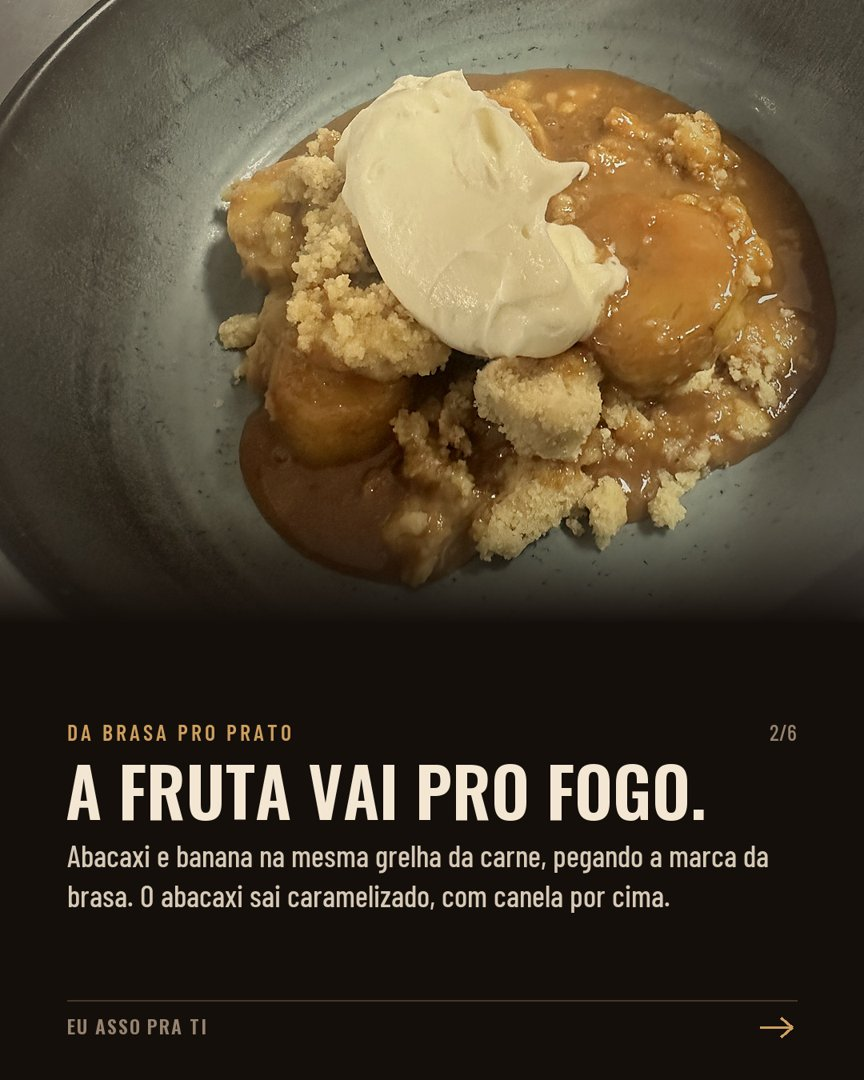
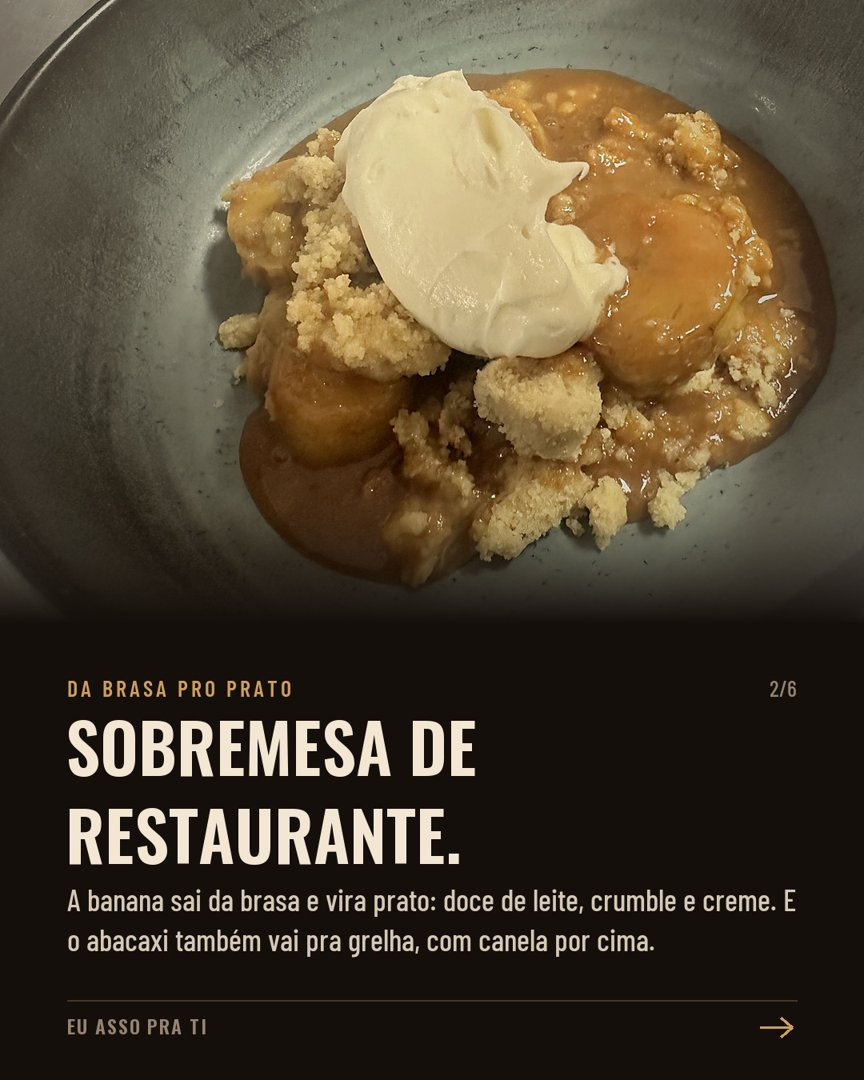
Post 08: slide 2 sobremesa de restaurante

Changed region(s): [[0.0625, 0.6111, 0.9375, 0.8861], [0.875, 0.6722, 0.9375, 0.7028], [0.9062, 0.6111, 0.9375, 0.6417]]

diff --git a/calendario/index.html b/calendario/index.html
@@ -11,7 +11,7 @@
 --display:"Oswald","Arial Narrow",sans-serif;--label:"Barlow Condensed","Arial Narrow",sans-serif;--text:"Barlow",system-ui,sans-serif;color-scheme:dark}
 *{box-sizing:border-box}
 body{margin:0;background:var(--bg);color:var(--body);font:400 1.0625rem/1.6 var(--text)}
-.hero{position:relative;min-height:min(78vh,620px);display:grid;align-items:end;background:#000 url(img/p7-01.jpg?v=1792529153) center 45%/cover}
+.hero{position:relative;min-height:min(78vh,620px);display:grid;align-items:end;background:#000 url(img/p7-01.jpg?v=1792529203) center 45%/cover}
 .hero::after{content:"";position:absolute;inset:0;background:linear-gradient(180deg,rgba(21,15,11,.2) 0%,rgba(21,15,11,.55) 45%,var(--bg) 100%)}
 .hero .in{position:relative;z-index:1;max-width:760px;margin:0 auto;width:100%;padding:0 20px 36px}
 h1,h2{font-family:var(--display);font-weight:600;text-transform:uppercase;color:var(--fg);line-height:1.05;margin:0;text-wrap:balance}
@@ -88,13 +88,13 @@ footer{font:500 .9rem var(--label);color:var(--muted);letter-spacing:.06em;borde
   <h2>Post 7: sal antes ou sal depois?</h2>
   <p>Refeito com a tua explicação. Capa com o costelão assado, o fogo da tua churrasqueira, o teu vídeo salgando com sal grosso no time sal antes, e todos os cards na mesma cor quente e premium. Depois: a reação de Maillard, quando salgar antes, quando salgar depois, como tu faz e por que não salgar o corte nobre antes. Fecha com o teu time: depende do corte.</p>
   <div class="car" aria-label="Imagens do post 7">
-    <img src="img/p7-01.jpg?v=1792529153" alt="Capa: Sal antes ou sal depois?" loading="lazy">
-    <img src="img/p7-02.jpg?v=1792529153" alt="A crostinha faz a diferença" loading="lazy">
-    <video src="video/p7-sal.mp4?v=1792529153" autoplay muted loop playsinline style="width:min(78%,330px);flex:none;scroll-snap-align:start;border-radius:8px;aspect-ratio:4/5;object-fit:cover;box-shadow:0 10px 30px rgba(0,0,0,.4)"></video>
-    <img src="img/p7-04.jpg?v=1792529153" alt="Time sal depois" loading="lazy">
-    <img src="img/p7-05.jpg?v=1792529153" alt="Descansa, fatia, salga" loading="lazy">
-    <img src="img/p7-06.jpg?v=1792529153" alt="Sal cedo tira o sabor" loading="lazy">
-    <img src="img/p7-07.jpg?v=1792529153" alt="E eu? Depende do corte" loading="lazy">
+    <img src="img/p7-01.jpg?v=1792529203" alt="Capa: Sal antes ou sal depois?" loading="lazy">
+    <img src="img/p7-02.jpg?v=1792529203" alt="A crostinha faz a diferença" loading="lazy">
+    <video src="video/p7-sal.mp4?v=1792529203" autoplay muted loop playsinline style="width:min(78%,330px);flex:none;scroll-snap-align:start;border-radius:8px;aspect-ratio:4/5;object-fit:cover;box-shadow:0 10px 30px rgba(0,0,0,.4)"></video>
+    <img src="img/p7-04.jpg?v=1792529203" alt="Time sal depois" loading="lazy">
+    <img src="img/p7-05.jpg?v=1792529203" alt="Descansa, fatia, salga" loading="lazy">
+    <img src="img/p7-06.jpg?v=1792529203" alt="Sal cedo tira o sabor" loading="lazy">
+    <img src="img/p7-07.jpg?v=1792529203" alt="E eu? Depende do corte" loading="lazy">
   </div>
   <p class="hint">Arrasta para o lado: 6 imagens e o vídeo do sal grosso.</p>
   <details><summary>Ver a legenda</summary><div class="cap">Sal antes ou sal depois? 🧂🔥
@@ -126,12 +126,12 @@ Agora me conta aqui nos comentários: tu é de qual time? 👇
   <h2>Post 8: sobremesas no fogo</h2>
   <p>Montado com as tuas fotos, na pegada de restaurante: abacaxi e banana caramelizando na grelha na capa, a banana com doce de leite, crumble e creme, o teu vídeo ralando limão na banana empratada, a banana assada com doce de leite e crocante, o Martín Fierro e o fecho com o fogo da churrasqueira.</p>
   <div class="car" aria-label="Imagens do post 8">
-    <img src="img/p8-01.jpg?v=1792529153" alt="Capa: E a sobremesa? No fogo, é claro." loading="lazy">
-    <img src="img/p8-02.jpg?v=1792529153" alt="A fruta vai pro fogo" loading="lazy">
-    <video src="video/p8-sobremesa.mp4?v=1792529153" autoplay muted loop playsinline style="width:min(78%,330px);flex:none;scroll-snap-align:start;border-radius:8px;aspect-ratio:4/5;object-fit:cover;box-shadow:0 10px 30px rgba(0,0,0,.4)"></video>
-    <img src="img/p8-04.jpg?v=1792529153" alt="Doce de leite e crocante" loading="lazy">
-    <img src="img/p8-05.jpg?v=1792529153" alt="Martín Fierro" loading="lazy">
-    <img src="img/p8-06.jpg?v=1792529153" alt="Gostinho de quero mais" loading="lazy">
+    <img src="img/p8-01.jpg?v=1792529203" alt="Capa: E a sobremesa? No fogo, é claro." loading="lazy">
+    <img src="img/p8-02.jpg?v=1792529203" alt="Sobremesa de restaurante" loading="lazy">
+    <video src="video/p8-sobremesa.mp4?v=1792529203" autoplay muted loop playsinline style="width:min(78%,330px);flex:none;scroll-snap-align:start;border-radius:8px;aspect-ratio:4/5;object-fit:cover;box-shadow:0 10px 30px rgba(0,0,0,.4)"></video>
+    <img src="img/p8-04.jpg?v=1792529203" alt="Doce de leite e crocante" loading="lazy">
+    <img src="img/p8-05.jpg?v=1792529203" alt="Martín Fierro" loading="lazy">
+    <img src="img/p8-06.jpg?v=1792529203" alt="Gostinho de quero mais" loading="lazy">
   </div>
   <p class="hint">Arrasta para o lado: 5 imagens e o vídeo da banana empratada.</p>
   <details><summary>Ver a legenda</summary><div class="cap">E a sobremesa? No fogo, é claro 🔥
@@ -157,11 +157,11 @@ Me chama no WhatsApp pelo link da bio ou no (51) 99565-7817 e me conta como tu i
   <h2>Post 9: antes da tua festa começar</h2>
   <p>O bastidor premium: os cortes separados pro cardápio, o cronograma, o serviço na mesa. Mostra o cuidado que o cliente não vê.</p>
   <div class="car" aria-label="Imagens do post 9">
-    <img src="img/p9-01.jpg?v=1792529153" alt="Capa: Antes da tua festa começar" loading="lazy">
-    <img src="img/p9-02.jpg?v=1792529153" alt="Cada corte separado pra ti" loading="lazy">
-    <img src="img/p9-03.jpg?v=1792529153" alt="O cronograma manda" loading="lazy">
-    <img src="img/p9-04.jpg?v=1792529153" alt="Servido pra galera" loading="lazy">
-    <img src="img/p9-05.jpg?v=1792529153" alt="Me conta a tua" loading="lazy">
+    <img src="img/p9-01.jpg?v=1792529203" alt="Capa: Antes da tua festa começar" loading="lazy">
+    <img src="img/p9-02.jpg?v=1792529203" alt="Cada corte separado pra ti" loading="lazy">
+    <img src="img/p9-03.jpg?v=1792529203" alt="O cronograma manda" loading="lazy">
+    <img src="img/p9-04.jpg?v=1792529203" alt="Servido pra galera" loading="lazy">
+    <img src="img/p9-05.jpg?v=1792529203" alt="Me conta a tua" loading="lazy">
   </div>
   <p class="hint">Arrasta para o lado para ver as 5 imagens.</p>
   <details><summary>Ver a legenda</summary><div class="cap">Antes da tua festa começar, já tem muita coisa acontecendo 🔥

diff --git a/semana/index.html b/semana/index.html
@@ -11,7 +11,7 @@
 --display:"Oswald","Arial Narrow",sans-serif;--label:"Barlow Condensed","Arial Narrow",sans-serif;--text:"Barlow",system-ui,sans-serif;color-scheme:dark}
 *{box-sizing:border-box}
 body{margin:0;background:var(--bg);color:var(--body);font:400 1.0625rem/1.6 var(--text)}
-.hero{position:relative;min-height:min(78vh,620px);display:grid;align-items:end;background:#000 url(img/p5-02.jpg?v=1792529153) center 40%/cover}
+.hero{position:relative;min-height:min(78vh,620px);display:grid;align-items:end;background:#000 url(img/p5-02.jpg?v=1792529203) center 40%/cover}
 .hero::after{content:"";position:absolute;inset:0;background:linear-gradient(180deg,rgba(21,15,11,.2) 0%,rgba(21,15,11,.55) 45%,var(--bg) 100%)}
 .hero .in{position:relative;z-index:1;max-width:760px;margin:0 auto;width:100%;padding:0 20px 36px}
 h1,h2{font-family:var(--display);font-weight:600;text-transform:uppercase;color:var(--fg);line-height:1.05;margin:0;text-wrap:balance}
@@ -81,13 +81,13 @@ footer{font:500 .9rem var(--label);color:var(--muted);letter-spacing:.06em;borde
   <h2>Post 5: gastronomia de fogo</h2>
   <p>Carrossel de 7 imagens: a carne de qualidade, cada uma no seu ponto, os legumes, o fatiado na hora, a sobremesa no fogo e o convite pra conversar.</p>
   <div class="car" aria-label="Imagens do post 5">
-    <img src="img/p5-01.jpg?v=1792529153" alt="Capa: Gastronomia de fogo" loading="lazy">
-    <img src="img/p5-02.jpg?v=1792529153" alt="Carne de qualidade" loading="lazy">
-    <img src="img/p5-03.jpg?v=1792529153" alt="Cada carne no seu ponto" loading="lazy">
-    <img src="img/p5-04.jpg?v=1792529153" alt="Os legumes também vão pro fogo" loading="lazy">
-    <img src="img/p5-05.jpg?v=1792529153" alt="Fatiado na hora" loading="lazy">
-    <img src="img/p5-06.jpg?v=1792529153" alt="E a sobremesa? No fogo, é claro" loading="lazy">
-    <img src="img/p5-07.jpg?v=1792529153" alt="Tem festa vindo aí?" loading="lazy">
+    <img src="img/p5-01.jpg?v=1792529203" alt="Capa: Gastronomia de fogo" loading="lazy">
+    <img src="img/p5-02.jpg?v=1792529203" alt="Carne de qualidade" loading="lazy">
+    <img src="img/p5-03.jpg?v=1792529203" alt="Cada carne no seu ponto" loading="lazy">
+    <img src="img/p5-04.jpg?v=1792529203" alt="Os legumes também vão pro fogo" loading="lazy">
+    <img src="img/p5-05.jpg?v=1792529203" alt="Fatiado na hora" loading="lazy">
+    <img src="img/p5-06.jpg?v=1792529203" alt="E a sobremesa? No fogo, é claro" loading="lazy">
+    <img src="img/p5-07.jpg?v=1792529203" alt="Tem festa vindo aí?" loading="lazy">
   </div>
   <p class="hint">Arrasta para o lado para ver as 7 imagens.</p>
   <details><summary>Ver a legenda</summary><div class="cap">Gastronomia de fogo 🔥 Eu cuido do fogo, tu aproveita a festa.
@@ -114,12 +114,12 @@ Me chama no WhatsApp pelo link da bio ou no (51) 99565-7817 e me conta como tu i
   <h2>Post 6: a tua festa, do teu jeito</h2>
   <p>Aqui não tem cardápio pronto: aniversário em casa, confraternização, casamento e formatura, cada um com o seu jeito. Fecha com "me conta a tua festa".</p>
   <div class="car" aria-label="Imagens do post 6">
-    <img src="img/p6-01.jpg?v=1792529153" alt="Capa: A tua festa, do teu jeito" loading="lazy">
-    <img src="img/p6-02.jpg?v=1792529153" alt="Pra família e os amigos" loading="lazy">
-    <img src="img/p6-03.jpg?v=1792529153" alt="Pra galera da empresa" loading="lazy">
-    <img src="img/p6-04.jpg?v=1792529153" alt="Pro dia que não volta" loading="lazy">
-    <img src="img/p6-05.jpg?v=1792529153" alt="Nada de cardápio pronto" loading="lazy">
-    <img src="img/p6-06.jpg?v=1792529153" alt="Me conta a tua festa" loading="lazy">
+    <img src="img/p6-01.jpg?v=1792529203" alt="Capa: A tua festa, do teu jeito" loading="lazy">
+    <img src="img/p6-02.jpg?v=1792529203" alt="Pra família e os amigos" loading="lazy">
+    <img src="img/p6-03.jpg?v=1792529203" alt="Pra galera da empresa" loading="lazy">
+    <img src="img/p6-04.jpg?v=1792529203" alt="Pro dia que não volta" loading="lazy">
+    <img src="img/p6-05.jpg?v=1792529203" alt="Nada de cardápio pronto" loading="lazy">
+    <img src="img/p6-06.jpg?v=1792529203" alt="Me conta a tua festa" loading="lazy">
   </div>
   <p class="hint">Arrasta para o lado para ver as 6 imagens.</p>
   <details><summary>Ver a legenda</summary><div class="cap">A tua festa, do teu jeito 🔥
@@ -144,7 +144,7 @@ Me chama no WhatsApp pelo link da bio ou no (51) 99565-7817 e me conta a tua fes
 <section>
   <div class="post-head"><p class="k" style="margin:0">Terça 13/10</p><span class="tag done">No ar</span></div>
   <h2>Post 4: o primeiro Reels</h2>
-  <video class="vid" src="video/p4-reels.mp4?v=1792529153" controls playsinline preload="metadata"></video>
+  <video class="vid" src="video/p4-reels.mp4?v=1792529203" controls playsinline preload="metadata"></video>
   <details><summary>Ver a legenda</summary><div class="cap">Quando tu chega, o fogo já tá pronto 🔥
 
 Eu chego bem antes pra preparar tudo: a carne de qualidade separada pra tua festa, o fogo no ponto certinho e tudo saindo da brasa direto pra tábua, servido quentinho pra galera.
